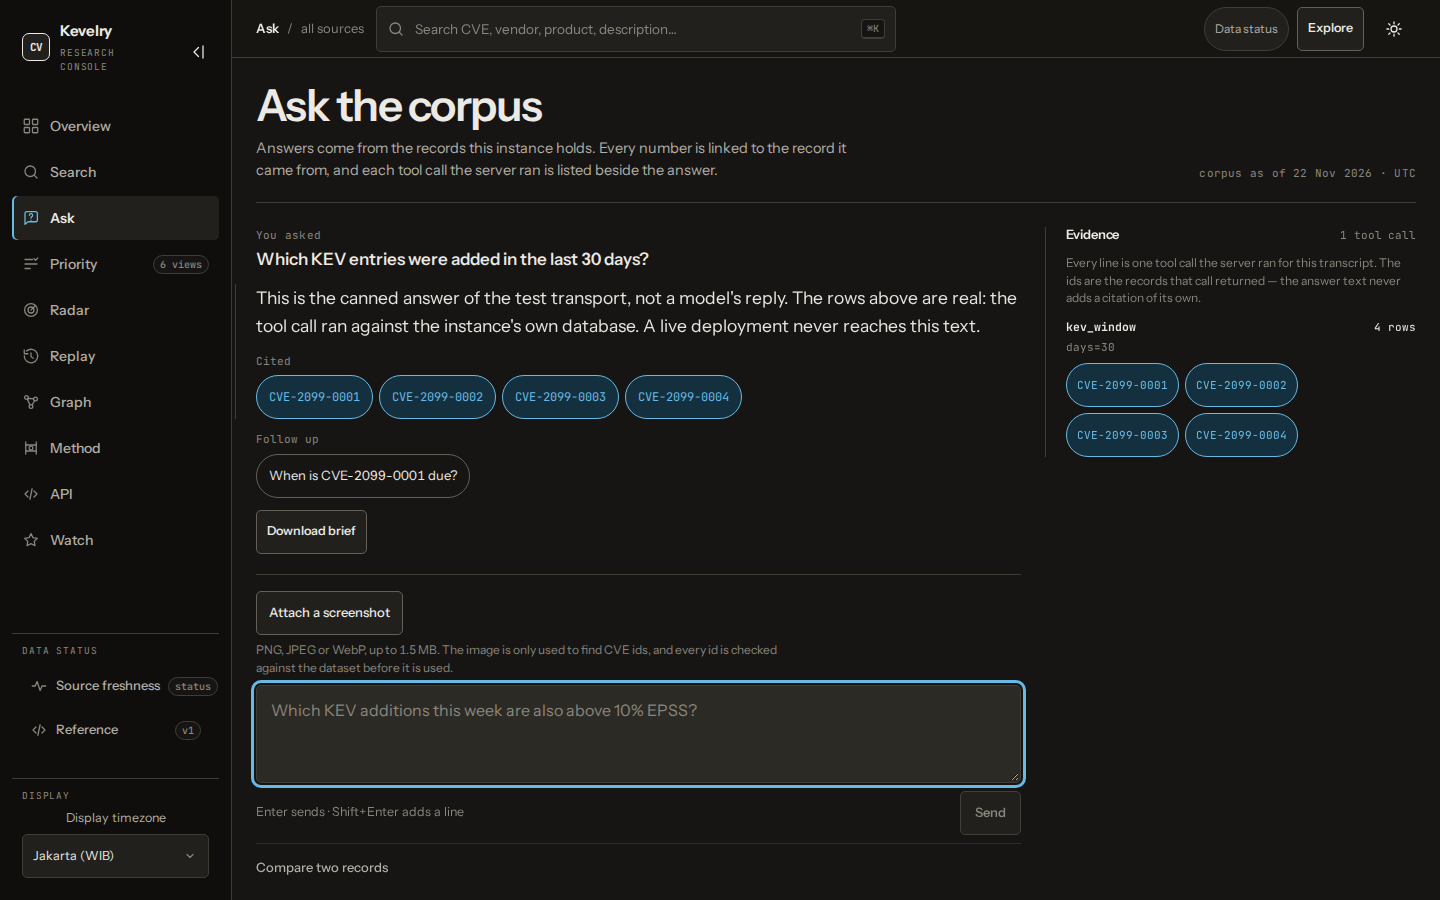
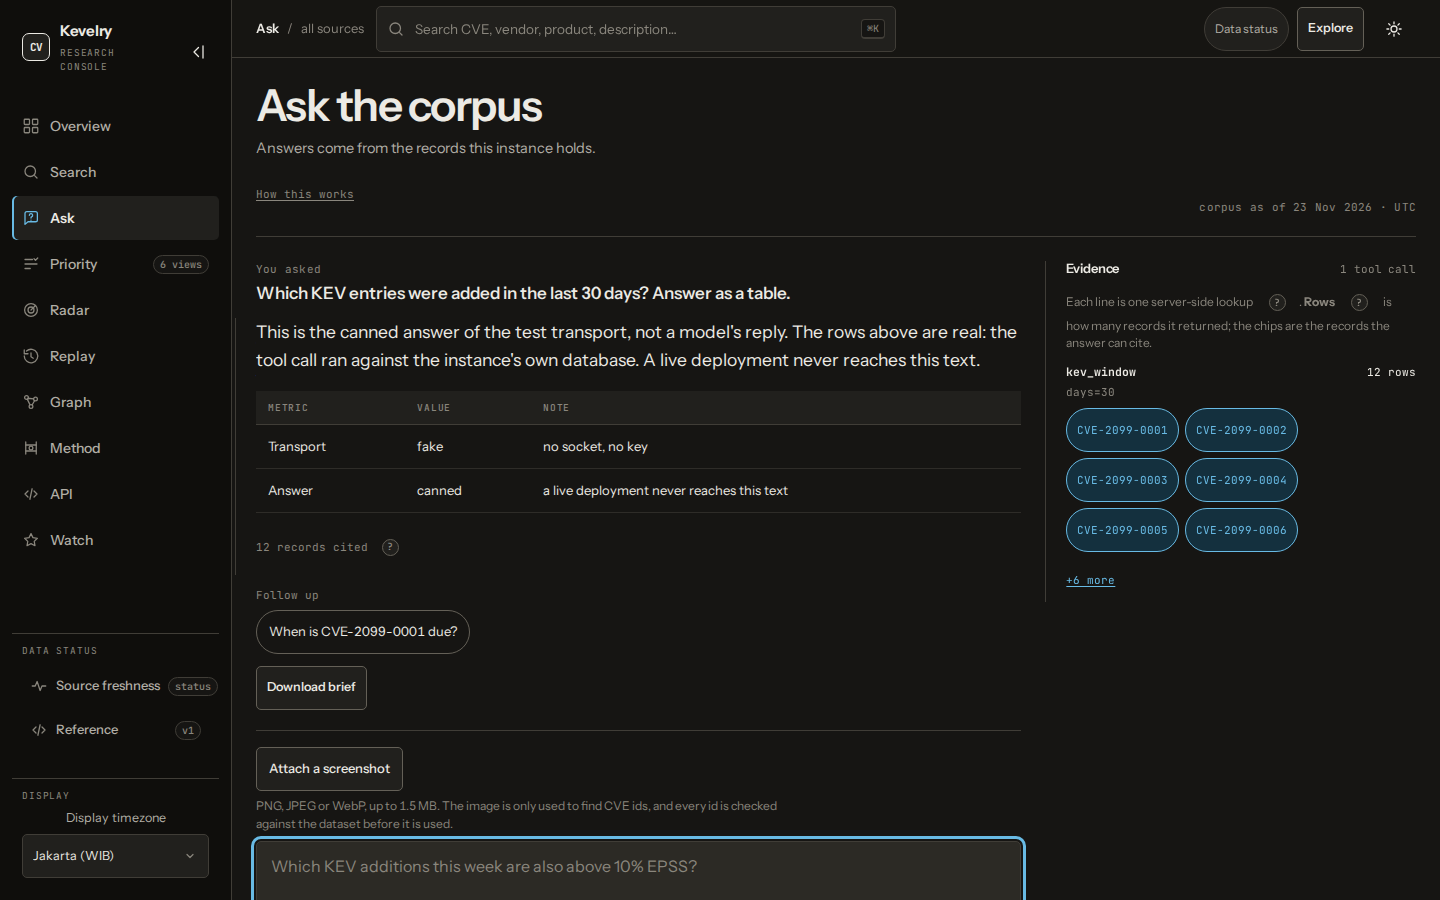
docs: refresh the assistant screenshots for the new rail

diff --git a/README.md b/README.md
@@ -110,19 +110,26 @@ fetch the API endpoint instead of describing an empty page.
 
 ### A grounded answer, with its evidence ledger
 
-![Assistant at 1440×900 in dark theme: the question “Which KEV entries were added in the last 30 days?” with a settled answer, four citation chips, and the Evidence column reading “1 tool call”, “kev_window”, “days=30”, “4 rows”](docs/images/assistant.png)
+![Assistant at 1440×900 in dark theme: the question “Which KEV entries were added in the last 30 days? Answer as a table.” settled with a two-row table, the citation union folded to one line reading “12 records cited”, and the Evidence column showing its legend, “1 tool call”, “kev_window”, “days=30”, “12 rows”, six chips and a “+6 more” control](docs/images/assistant.png)
 
 A settled turn. The question, answer, follow-up, brief action and composer share
-one left edge (no bubbles, no speaker indentation), the citation chips under the
-answer link to `/explore?q=<id>`, and the **Evidence** column on the right names
-the one tool call behind them — `kev_window`, `days=30`, `4 rows` — with the ids
-it returned. The frame is the browser suite's offline **fake transport**
-(`AI_FAKE_TRANSPORT=1`) against the seeded e2e corpus, so the prose is canned and
-says so; the tool call, its row count and the citations are real.
+one left edge (no bubbles, no speaker indentation), and the answer is rendered —
+the table with its metric/value/note header is the desk's own, never a model's
+markup. The turn's citation union is **folded to one line** (`12 records cited`);
+opening it lists chips that link to `/explore?q=<id>`. The **Evidence** column on
+the right states its legend — each line is one server-side lookup, `Rows` is how
+many records it returned, the chips are what the answer can cite — then names
+the one tool call behind the answer, `kev_window` with `days=30` and `12 rows`,
+and shows six of its ids plus a `+6 more` disclosure: density is a hierarchy of
+calls and records, never an inner scrollbar. The frame is a local production
+build of 4.0.4 driven through the browser suite's offline **fake transport**
+(`AI_FAKE_TRANSPORT=1`) against the suite's dense twelve-record fixture, so the
+prose is canned and says so; the tool call, its row count and the citations are
+real.
 
 ### Compare two records, field by field
 
-![Assistant compare mode at 1440×900 in dark theme: the “Compare two records” disclosure open with CVE-2099-0001 and CVE-2099-0002 filled, its note about status, dates, CVSS, KEV, ransomware, EPSS and CWE, and the Compare button; the Evidence column reads “no tool calls yet”](docs/images/assistant-compare.png)
+![Assistant compare mode at 1440×900 in dark theme: the “Compare two records” disclosure open with CVE-2099-0001 and CVE-2099-0002 filled, its note about status, dates, CVSS, KEV, ransomware, EPSS and CWE, and the Compare button; the Evidence column reads “no tool calls yet” above its legend and “Nothing has run yet. The first question fills this column.”](docs/images/assistant-compare.png)
 
 The compare disclosure beside the composer: two labelled id fields with the same
 shape rules as the API, the fixed question it will send (status, dates, CVSS,
@@ -156,8 +163,9 @@ corpus** — 1,640 published records, 78 KEV entries, 30 daily EPSS observations
 not the live instance, so the numbers in the frames are reproducible rather than
 current. For the deployment's own figures, read `/methodology`, which counts the
 accepted snapshot. The two assistant captures live under
-[What v4 adds](#what-v4-adds); they come from the browser suite's dev server with
-its offline transport, which their captions state.
+[What v4 adds](#what-v4-adds); they are a local production build of 4.0.4 served
+against the browser suite's dense twelve-record fixture with its offline
+transport, which their captions state.
 
 ### Overview — the KEV rhythm, one month hovered
 
